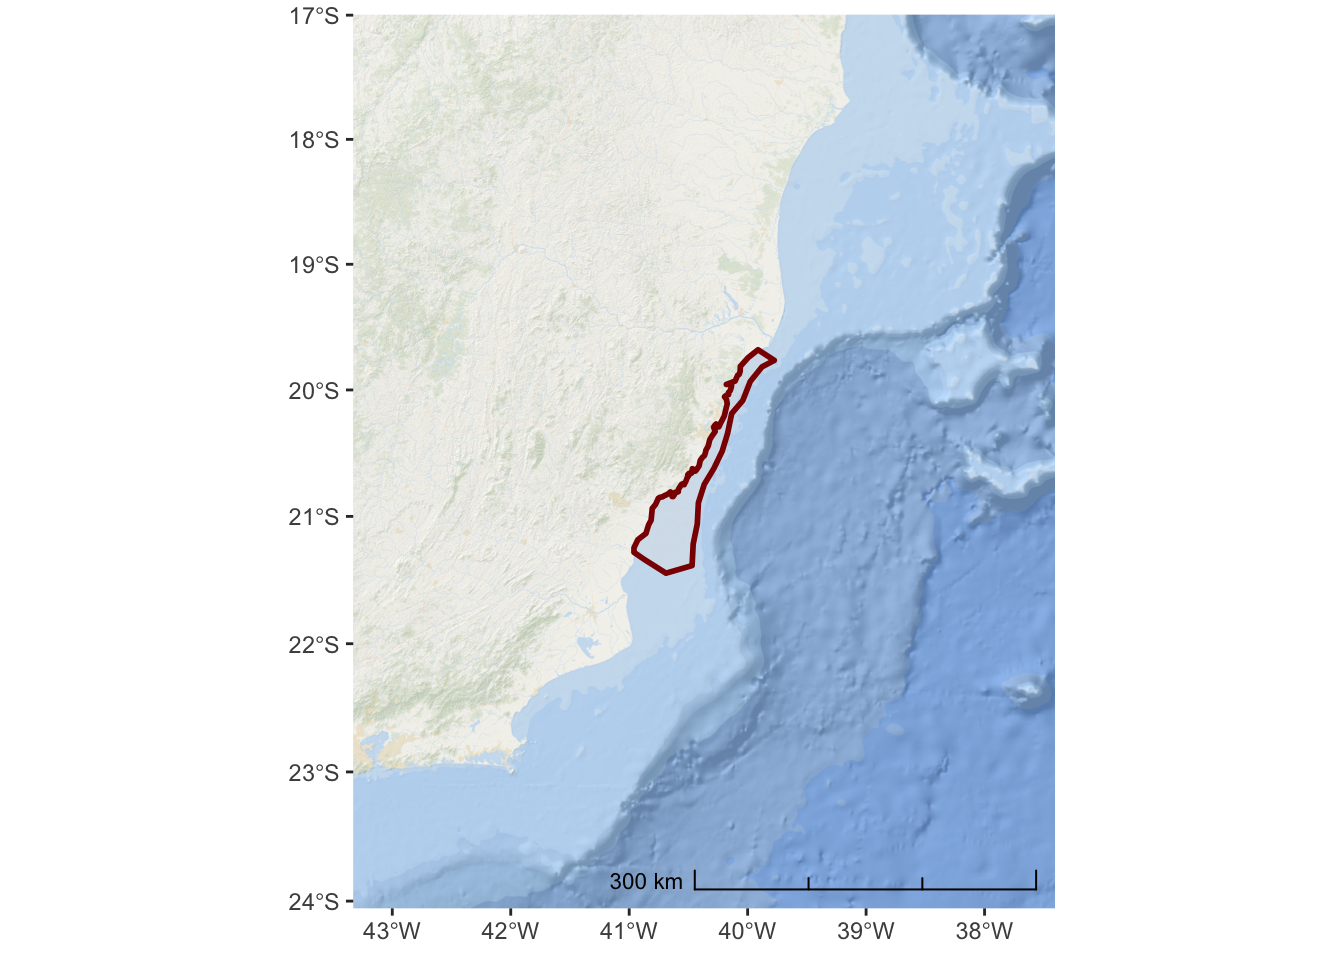
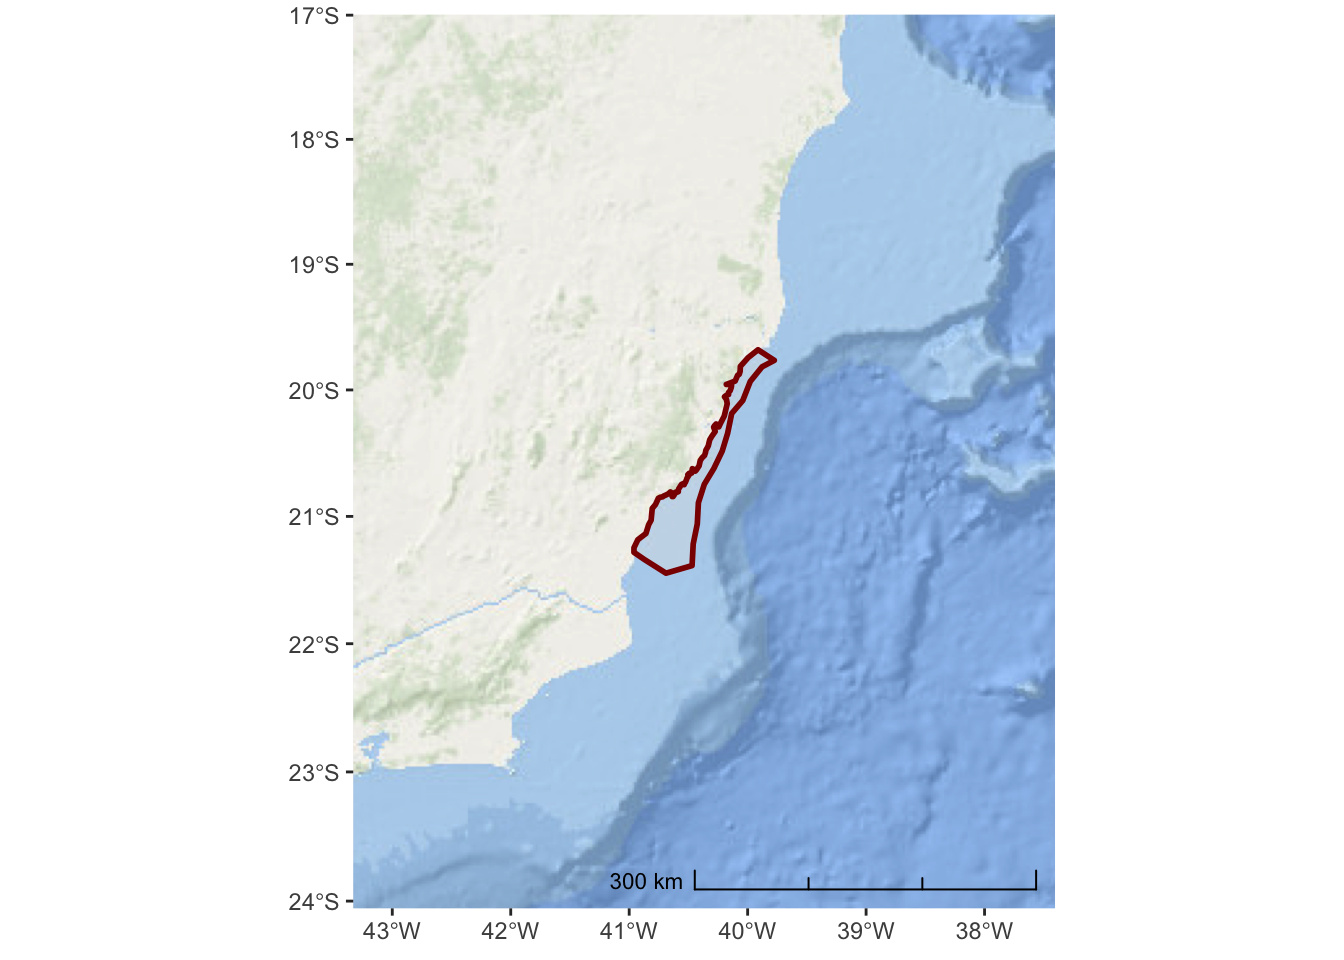
CHANGE TO LOWER ZOOM FOR ESRI MAP

diff --git a/docs/exercise-1-loading-spatial-data.html b/docs/exercise-1-loading-spatial-data.html
@@ -25,7 +25,7 @@
 <meta name="author" content="Josh M. London">
 
 
-<meta name="date" content="2018-11-03">
+<meta name="date" content="2018-11-04">
 
   <meta name="viewport" content="width=device-width, initial-scale=1">
   <meta name="apple-mobile-web-app-capable" content="yes">
@@ -289,7 +289,7 @@ detailed bathymetry and topography for the entire globe.</p>
 <a class="sourceLine" id="cb22-2" data-line-number="2">                     <span class="st">&#39;Ocean/World_Ocean_Base/MapServer/tile/${z}/${y}/${x}.jpeg&#39;</span>)</a></code></pre></div>
 <p>And, then we can replace the <code>annotation_map_tile()</code> in the previous code</p>
 <div class="sourceCode" id="cb23"><pre class="sourceCode r"><code class="sourceCode r"><a class="sourceLine" id="cb23-1" data-line-number="1"><span class="kw">ggplot</span>() <span class="op">+</span></a>
-<a class="sourceLine" id="cb23-2" data-line-number="2"><span class="st">  </span><span class="kw">annotation_map_tile</span>(<span class="dt">type =</span> esri_ocean, <span class="dt">zoomin =</span> <span class="dv">1</span>, <span class="dt">progress =</span> <span class="st">&quot;none&quot;</span>) <span class="op">+</span></a>
+<a class="sourceLine" id="cb23-2" data-line-number="2"><span class="st">  </span><span class="kw">annotation_map_tile</span>(<span class="dt">type =</span> esri_ocean, <span class="dt">progress =</span> <span class="st">&quot;none&quot;</span>) <span class="op">+</span></a>
 <a class="sourceLine" id="cb23-3" data-line-number="3"><span class="st">  </span><span class="kw">layer_spatial</span>(hiatus, <span class="dt">col =</span> <span class="st">&quot;dark red&quot;</span>, <span class="dt">alpha =</span> <span class="fl">0.4</span>, <span class="dt">size =</span> <span class="dv">1</span>) <span class="op">+</span></a>
 <a class="sourceLine" id="cb23-4" data-line-number="4"><span class="st">  </span><span class="kw">scale_y_continuous</span>(<span class="dt">expand =</span> <span class="kw">c</span>(<span class="fl">1.5</span>,<span class="fl">1.5</span>)) <span class="op">+</span></a>
 <a class="sourceLine" id="cb23-5" data-line-number="5"><span class="st">  </span><span class="kw">scale_x_continuous</span>(<span class="dt">expand =</span> <span class="kw">c</span>(<span class="dv">2</span>,<span class="dv">2</span>)) <span class="op">+</span></a>
@@ -299,7 +299,7 @@ detailed bathymetry and topography for the entire globe.</p>
 subtitle to the map so we can inform the user about what this is and where
 it is in the world.</p>
 <div class="sourceCode" id="cb24"><pre class="sourceCode r"><code class="sourceCode r"><a class="sourceLine" id="cb24-1" data-line-number="1"><span class="kw">ggplot</span>() <span class="op">+</span></a>
-<a class="sourceLine" id="cb24-2" data-line-number="2"><span class="st">  </span><span class="kw">annotation_map_tile</span>(<span class="dt">type =</span> esri_ocean, <span class="dt">zoomin =</span> <span class="dv">1</span>, <span class="dt">progress =</span> <span class="st">&quot;none&quot;</span>) <span class="op">+</span></a>
+<a class="sourceLine" id="cb24-2" data-line-number="2"><span class="st">  </span><span class="kw">annotation_map_tile</span>(<span class="dt">type =</span> esri_ocean, <span class="dt">progress =</span> <span class="st">&quot;none&quot;</span>) <span class="op">+</span></a>
 <a class="sourceLine" id="cb24-3" data-line-number="3"><span class="st">  </span><span class="kw">layer_spatial</span>(hiatus, <span class="dt">col =</span> <span class="st">&quot;dark red&quot;</span>, <span class="dt">alpha =</span> <span class="fl">0.4</span>, <span class="dt">size =</span> <span class="dv">1</span>) <span class="op">+</span></a>
 <a class="sourceLine" id="cb24-4" data-line-number="4"><span class="st">  </span><span class="kw">scale_y_continuous</span>(<span class="dt">expand =</span> <span class="kw">c</span>(<span class="fl">1.5</span>,<span class="fl">1.5</span>)) <span class="op">+</span></a>
 <a class="sourceLine" id="cb24-5" data-line-number="5"><span class="st">  </span><span class="kw">scale_x_continuous</span>(<span class="dt">expand =</span> <span class="kw">c</span>(<span class="dv">2</span>,<span class="dv">2</span>)) <span class="op">+</span></a>
@@ -314,7 +314,7 @@ can explore. Here are some additional tiles that you might prefer</p>
 <div id="cartolight" class="section level3">
 <h3><span class="header-section-number">3.2.1</span> cartolight</h3>
 <div class="sourceCode" id="cb25"><pre class="sourceCode r"><code class="sourceCode r"><a class="sourceLine" id="cb25-1" data-line-number="1"><span class="kw">ggplot</span>() <span class="op">+</span></a>
-<a class="sourceLine" id="cb25-2" data-line-number="2"><span class="st">  </span><span class="kw">annotation_map_tile</span>(<span class="dt">type =</span> <span class="st">&quot;cartolight&quot;</span>, <span class="dt">zoomin =</span> <span class="dv">1</span>, <span class="dt">progress =</span> <span class="st">&quot;none&quot;</span>) <span class="op">+</span></a>
+<a class="sourceLine" id="cb25-2" data-line-number="2"><span class="st">  </span><span class="kw">annotation_map_tile</span>(<span class="dt">type =</span> <span class="st">&quot;cartolight&quot;</span>, <span class="dt">progress =</span> <span class="st">&quot;none&quot;</span>) <span class="op">+</span></a>
 <a class="sourceLine" id="cb25-3" data-line-number="3"><span class="st">  </span><span class="kw">layer_spatial</span>(hiatus, <span class="dt">col =</span> <span class="st">&quot;dark red&quot;</span>, <span class="dt">alpha =</span> <span class="fl">0.4</span>, <span class="dt">size =</span> <span class="dv">1</span>) <span class="op">+</span></a>
 <a class="sourceLine" id="cb25-4" data-line-number="4"><span class="st">  </span><span class="kw">scale_y_continuous</span>(<span class="dt">expand =</span> <span class="kw">c</span>(<span class="fl">1.5</span>,<span class="fl">1.5</span>)) <span class="op">+</span></a>
 <a class="sourceLine" id="cb25-5" data-line-number="5"><span class="st">  </span><span class="kw">scale_x_continuous</span>(<span class="dt">expand =</span> <span class="kw">c</span>(<span class="dv">2</span>,<span class="dv">2</span>)) <span class="op">+</span></a>
@@ -426,7 +426,7 @@ areas of interest (hiatus and both stratums).</p>
 <a class="sourceLine" id="cb35-5" data-line-number="5"></a>
 <a class="sourceLine" id="cb35-6" data-line-number="6">franciscana_plot &lt;-<span class="st"> </span></a>
 <a class="sourceLine" id="cb35-7" data-line-number="7"><span class="st">  </span><span class="kw">ggplot</span>() <span class="op">+</span></a>
-<a class="sourceLine" id="cb35-8" data-line-number="8"><span class="st">  </span><span class="kw">annotation_map_tile</span>(<span class="dt">type =</span> esri_ocean, <span class="dt">zoomin =</span> <span class="dv">1</span>, <span class="dt">progress =</span> <span class="st">&quot;none&quot;</span>) <span class="op">+</span></a>
+<a class="sourceLine" id="cb35-8" data-line-number="8"><span class="st">  </span><span class="kw">annotation_map_tile</span>(<span class="dt">type =</span> esri_ocean, <span class="dt">progress =</span> <span class="st">&quot;none&quot;</span>) <span class="op">+</span></a>
 <a class="sourceLine" id="cb35-9" data-line-number="9"><span class="st">  </span><span class="kw">layer_spatial</span>(hiatus, <span class="dt">col =</span> <span class="st">&quot;dark red&quot;</span>, <span class="dt">fill =</span> <span class="st">&quot;red&quot;</span>, <span class="dt">alpha =</span> <span class="fl">0.4</span>, <span class="dt">size =</span> <span class="dv">1</span>) <span class="op">+</span></a>
 <a class="sourceLine" id="cb35-10" data-line-number="10"><span class="st">  </span><span class="kw">layer_spatial</span>(north_stratum, <span class="dt">col =</span> <span class="st">&quot;purple4&quot;</span>, <span class="dt">fill =</span> <span class="st">&quot;purple&quot;</span>, <span class="dt">alpha =</span> <span class="fl">0.4</span>, <span class="dt">size =</span> <span class="dv">1</span>) <span class="op">+</span></a>
 <a class="sourceLine" id="cb35-11" data-line-number="11"><span class="st">  </span><span class="kw">layer_spatial</span>(south_stratum, <span class="dt">col =</span> <span class="st">&quot;purple4&quot;</span>, <span class="dt">fill =</span> <span class="st">&quot;purple&quot;</span>, <span class="dt">alpha =</span> <span class="fl">0.4</span>, <span class="dt">size =</span> <span class="dv">1</span>) <span class="op">+</span></a>
